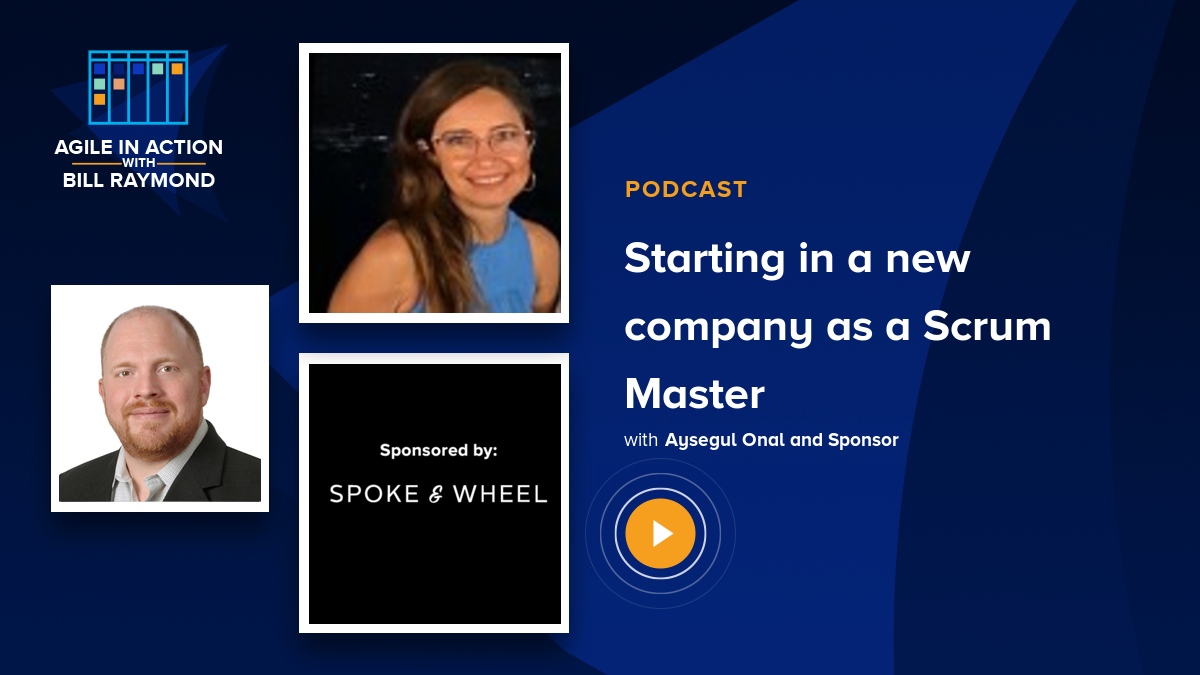
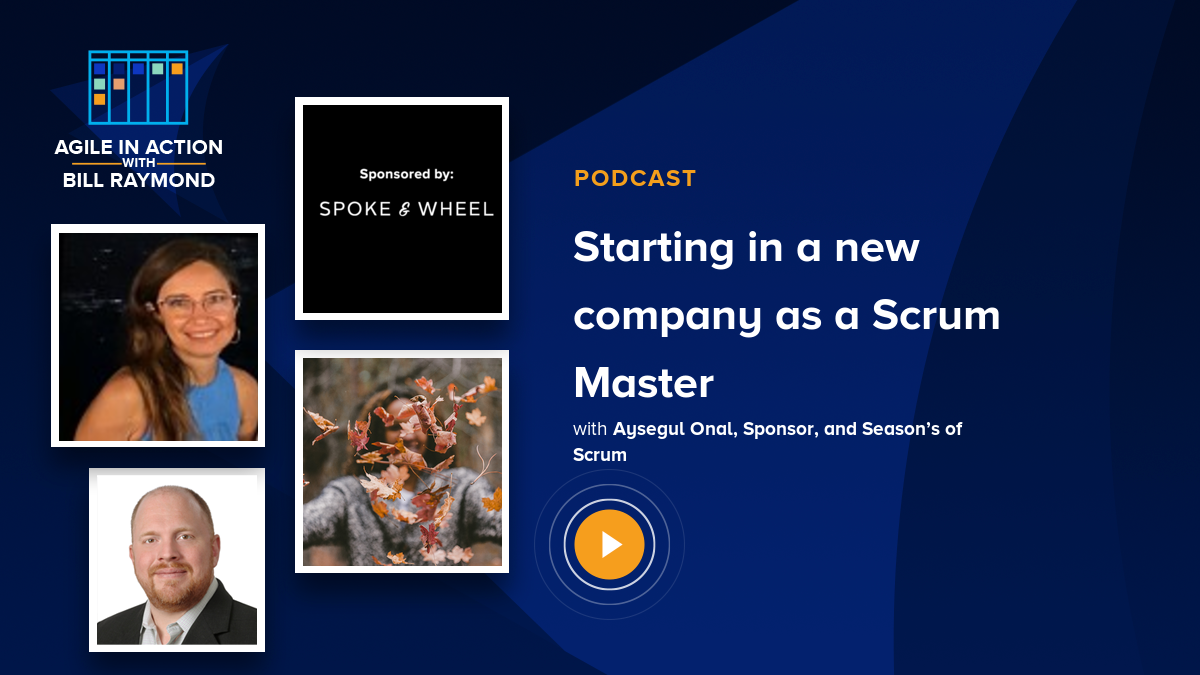
Jekyll build from Action

diff --git a/index.html b/index.html
@@ -33,7 +33,7 @@
     </nav>
 </nav>
 </div>
-            <div class="header-featured"><a href="/agile-in-action-podcast/2022/11/08/the-critical-role-of-leadership-and-change-management-with-agile-transformations.html" class="header-featured-link"><img src="/uploads/2022-11-08-the-critical-role-of-leadership-and-change-management-with-agile-transformations.png" alt="The critical role of leadership and change management with agile transformations" class="header-featured-image"></a></div>
+            <div class="header-featured"><a href="/agile-in-action-podcast/2022/11/15/starting-in-a-new-company-as-a-scrum-master.html" class="header-featured-link"><img src="/uploads/2022-11-15-starting-in-a-new-company-as-a-scrum-master.png" alt="Starting in a new company as a Scrum Master" class="header-featured-image"></a></div>
         </div>
     </section>
 
@@ -41,6 +41,23 @@
         
         <div class="guests-card-all-container">
             <div class="guests-card-container">
+                    
+
+
+<div class="guests-card-photos-container">
+        <div class="gcp-background"><img src="/assets/guests-card/logo-background-black-400x400.png" alt="" class="gcp-background-image">
+        </div>
+        
+        <div class="gcp-cards-2">
+            
+            <img src="/uploads/1667225105007.jpeg" alt="" class="gcp-card"><img src="/uploads/ad-spoke-and-wheel.png" alt="" class="gcp-card"></div>
+        <div class="gcp-play"><img src="/assets/guests-card/play-circle.png" alt="" class="gcp-play-image">
+        </div>
+    </div><div class="guests-card-title-container"><p class="gct-title"><span><a class="gct-title-href" href="/agile-in-action-podcast/2022/11/08/the-critical-role-of-leadership-and-change-management-with-agile-transformations.html">The critical role of leadership and change management with agile transformations</a></span></p>
+    </div><div class="guests-card-guests-container"><p class="gc-guest-text">with Hrishikesh Karekar and Sponsor: Spoke and Wheel</p>
+    </div><div class="guests-card-author-container"><img src="/assets/guests-card/bill-raymond-small-circle.png" alt="" class="gca-author-image"><p class="gca-author"><span class="gca-author-name">Bill Raymond</span>
+        <span class="gca-post-date"> - Tuesday, Nov 08, 2022</span></p>
+    </div></div><div class="guests-card-container">
                     
 
 

diff --git a/agile-in-action-podcast/2022/11/15/starting-in-a-new-company-as-a-scrum-master.html b/agile-in-action-podcast/2022/11/15/starting-in-a-new-company-as-a-scrum-master.html
@@ -73,7 +73,8 @@
                 </li></ul><h4>Sponsor</h4>
             <ul><li>
                     <a href="https://www.spokeandwheel.co/assess" target="blank">Mention the Agile in Action podcast for 10% off a psychological safety assessment</a>
-                </li></ul><p>Starting a new company as a Scrum Master, Aysegul encountered obstacles that you may also encounter.</p>
+                </li></ul><h4>Season's of Scrum</h4>
+            <ul></ul><p>Starting a new company as a Scrum Master, Aysegul encountered obstacles that you may also encounter.</p>
 
 <p>In today’s Agile in Action podcast, Aysegul shares a 30, 60, and 90-day roadmap to help you integrate into your new role or a new company as a Scrum master. Here are some of the topics Aysegul and Bill discuss:</p>
 
@@ -294,7 +295,6 @@
 <p>Thank you for listening to the Agile in Action Podcast with Bill Raymond. Subscribe now to stay current on the latest trends in team, organization, and agile techniques. Please take a moment to rate and comment to help us grow our community. This podcast is produced in affiliation with Canas LLC and our executive producer is Ri Yama Daon.</p>
 
 <p>If there is a topic you would like Bill to cover, contact him directly at bill.Raymond@agileandaction.com.</p>
-
 <h2 id="about-the-agile-in-action-with-bill-raymond-podcast">About the Agile in Action with Bill Raymond podcast</h2>
 
 <p>This business-focused podcast focuses on an audience that is passionate about making positive change in their organizations. The podcast presents interviews with leaders and practitioners who work tirelessly to modernize how teams work.</p>

diff --git a/admin.html b/admin.html
@@ -50,13 +50,13 @@
         <div class="gcp-background"><img src="/assets/guests-card/logo-background-black-400x400.png" alt="" class="gcp-background-image">
         </div>
         
-        <div class="gcp-cards-2">
+        <div class="gcp-cards-3">
             
-            <img src="/uploads/aysegul-onal.jpeg" alt="" class="gcp-card"><img src="/uploads/ad-spoke-and-wheel.png" alt="" class="gcp-card"></div>
+            <img src="/uploads/aysegul-onal.jpeg" alt="" class="gcp-card"><img src="/uploads/ad-spoke-and-wheel.png" alt="" class="gcp-card"><img src="/uploads/seasons-of-scrum.png" alt="" class="gcp-card"></div>
         <div class="gcp-play"><img src="/assets/guests-card/play-circle.png" alt="" class="gcp-play-image">
         </div>
     </div><div class="guests-card-title-container"><p class="gct-title"><span><a class="gct-title-href" href="/agile-in-action-podcast/2022/11/15/starting-in-a-new-company-as-a-scrum-master.html">Starting in a new company as a Scrum Master</a></span></p>
-    </div><div class="guests-card-guests-container"><p class="gc-guest-text">with Aysegul Onal and Sponsor</p>
+    </div><div class="guests-card-guests-container"><p class="gc-guest-text">with Aysegul Onal, Sponsor, and Season's of Scrum</p>
     </div><div class="guests-card-author-container"><img src="/assets/guests-card/bill-raymond-small-circle.png" alt="" class="gca-author-image"><p class="gca-author"><span class="gca-author-name">Bill Raymond</span>
         <span class="gca-post-date"> - Tuesday, Nov 15, 2022</span></p>
     </div></div><div class="guests-card-container">

diff --git a/guestphotos.html b/guestphotos.html
@@ -22,11 +22,13 @@
     
     <div class="site-container">
       
-      <h2>Title:Starting in a new company as a Scrum Master</h2># Guests:2<p>Guest:Aysegul Onal</p>
+      <h2>Title:Starting in a new company as a Scrum Master</h2># Guests:3<p>Guest:Aysegul Onal</p>
         <p>Photo:</p>
         <p><img src="/uploads/aysegul-onal.jpeg" alt=""> </p><p>Guest:Sponsor</p>
         <p>Photo:</p>
-        <p><img src="/uploads/ad-spoke-and-wheel.png" alt=""> </p><h2>Title:The critical role of leadership and change management with agile transformations</h2># Guests:2<p>Guest:Hrishikesh Karekar</p>
+        <p><img src="/uploads/ad-spoke-and-wheel.png" alt=""> </p><p>Guest:Season's of Scrum</p>
+        <p>Photo:</p>
+        <p><img src="/uploads/seasons-of-scrum.png" alt=""> </p><h2>Title:The critical role of leadership and change management with agile transformations</h2># Guests:2<p>Guest:Hrishikesh Karekar</p>
         <p>Photo:</p>
         <p><img src="/uploads/1667225105007.jpeg" alt=""> </p><p>Guest:Sponsor: Spoke and Wheel</p>
         <p>Photo:</p>
